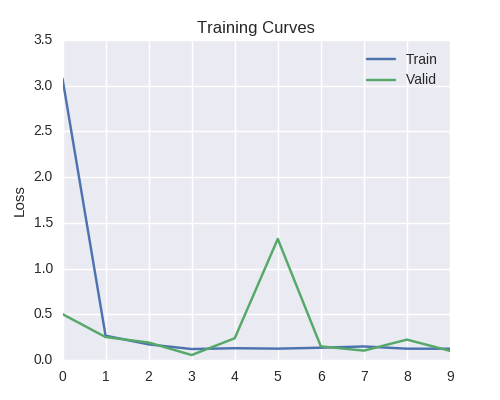
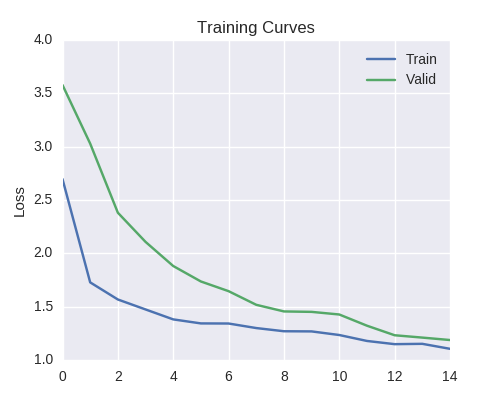
implemented hyperparam optim

diff --git a/hyperdnn2.py b/hyperdnn2.py
@@ -1,0 +1,162 @@
+#!/usr/bin/env python
+
+# Matplotlib with no Backend
+import matplotlib as mpl
+mpl.use('Agg')
+import matplotlib.pyplot as plt
+
+# Basic Imports
+import os
+import sys
+import numpy as np
+import pandas as pd
+import seaborn as sns
+from time import time
+
+# Keras Imports
+from keras.models import Model, load_model
+from keras.layers import Input, Dense, Lambda
+from keras.layers import Flatten, Reshape, BatchNormalization
+from keras.callbacks import CSVLogger, EarlyStopping, ModelCheckpoint
+from keras import regularizers
+from keras import backend as K
+from keras.callbacks import TensorBoard
+
+# Hyperopt
+from datetime import datetime
+from hyperopt import fmin, tpe, hp, STATUS_OK, Trials 
+from hyperopt import space_eval
+from hyperopt.pyll.base import scope
+
+# Other Imports
+from sklearn.model_selection import train_test_split
+from utils import plot_log
+
+
+#################################
+## HYPEROPT DEFINITIONS        ##
+#################################
+space = { 'i_units': scope.int(hp.uniform('units1',120,300)),
+          'm_units': scope.int(hp.uniform('units2', 72,200)),
+          'o_units': scope.int(hp.uniform('units3', 16,32)),
+
+          # 'dropout1': hp.uniform('dropout1',.2,.5),
+          # 'dropout2': hp.uniform('dropout2',.2,.5),
+
+          'batch_size' : scope.int(hp.uniform('batch_size', 20, 30)),
+          # 'layers': hp.choice('layers',['Five','Four']),
+          # 'optimizer': hp.choice('optimizer',['adam','rmsprop']),
+          # 'loss': hp.choice('loss',['categorical_crossentropy','squared_hinge','mean_squared_error']),
+        }
+
+
+
+# Global Parameters
+path = sys.argv[1]
+
+# Data load function
+def load_data(filename,prints=False):
+    data   = pd.read_csv(filename,header=None)
+    x_data = data.iloc[:,:-1].values
+    y_data = data.iloc[:,-1].values
+    if prints:
+        print 'X shape:', x_data.shape
+        print 'Y shape:', y_data.shape
+    return x_data,y_data
+
+# Load data
+filename = path + '/train.csv'
+x_train,y_train=load_data(filename)
+x_train,x_valid,y_train,y_valid = train_test_split(x_train,y_train,test_size=0.33,random_state=32)
+
+def f_nn(params):
+    ## Training Params
+    num_batch = params['batch_size']
+    num_epoch = 30
+
+    # addlayer  = params['layers'] == 'Five'
+
+    # Parameters
+    ndim = x_train.shape[1]
+    L1   = params['i_units']
+    L2   = params['m_units']
+    # L3   = params['m_units']
+    L4   = params['o_units']
+
+    # Build DNN
+    def build_model():
+        x = Input(shape=(ndim,),name='Input')
+        h = Dense(L1,activation='relu',name='L1')(x)
+        h = BatchNormalization()(h)
+        h = Dense(L2,activation='relu',kernel_regularizer=regularizers.l2(0.01),name='L2')(h)
+        h = BatchNormalization()(h)
+        # if addlayer:
+        #     h = Dense(L3,activation='relu',kernel_regularizer=regularizers.l2(0.01),name='L3')(h)
+        #     h = BatchNormalization()(h)
+        h = Dense(L4,activation='relu',name='L4')(h)
+        h = BatchNormalization()(h)
+        y = Dense(1,activation='linear',name='Output')(h)
+        model = Model(x,y)
+        return model
+
+
+    # Compile Model
+    model = build_model()
+    # model.summary()
+    model.compile(optimizer='adam',loss='mean_squared_error')
+
+    modelname  = 'hypermodel.h5'
+    e_stopper  = EarlyStopping(monitor='val_loss', min_delta=0, patience=20)
+    # checkpoint = ModelCheckpoint(modelname,monitor='val_loss',verbose=1,save_best_only=True)
+
+    # Train Model
+    log = model.fit(x_train, y_train,
+                    batch_size=num_batch,
+                    epochs=num_epoch,
+                    shuffle=True,
+                    validation_data=(x_valid,y_valid),
+                    # callbacks=[e_stopper,checkpoint],
+                    # callbacks=[e_stopper],
+                    verbose=2)
+
+    # model = load_model(modelname)
+
+    loss = model.evaluate(x_valid,y_valid,verbose=0)
+    print '\n\nLoss: {:0.4f}'.format(loss)
+    print 'L1: {}, L2: {}, L4: {}'.format(L1,L2,L4)
+    print 'BatchSize: {}\n\n'.format(num_batch)
+    return {'loss': loss, 'status': STATUS_OK}
+
+
+#################################
+## HYPERPARAMETER SEARCH       ##
+#################################
+then = time()
+trials = Trials()
+best   = fmin(f_nn, space, algo=tpe.suggest, max_evals=25, trials=trials)
+
+# Report Time
+now = time()
+d = divmod(now-then,86400)  # days
+h = divmod(d[1],3600)       # hours
+m = divmod(h[1],60)         # minutes
+s = m[1]                    # seconds
+print '\nTotal training time: %02dd:%02dh:%02dm:%02ds'% (d[0],h[0],m[0],s)
+print '\n\n'
+
+
+# Get the values of the optimal parameter
+best_params = space_eval(space, best)
+print 'best: '
+print best_params
+
+# Save the hyperparameter at each iteration to a csv file
+param_values = [x['misc']['vals'] for x in trials.trials]
+param_values = [{key:value for key in x for value in x[key]} for x in param_values]
+param_values = [space_eval(space, x) for x in param_values]
+
+param_df = pd.DataFrame(param_values)
+param_df['MSE'] = [x for x in trials.losses()]
+param_df.index.name = 'Iteration'
+param_df.to_csv("hyperparameters2.csv")
+

diff --git a/dnntrain.py b/dnntrain.py
@@ -24,40 +24,47 @@ from keras.callbacks import TensorBoard
 
 # Other Imports
 from sklearn.model_selection import train_test_split
-from utils import plot_log, run_tests
+from sklearn.preprocessing import MinMaxScaler
+from utils import load_data, plot_log, run_tests
 
 # Global Parameters
 path = sys.argv[-1]
 
-# Data load function
-def load_data(filename,prints=False,subset=False):
-    data   = pd.read_csv(filename,header=None)
-    if subset:
-        data = data.sample(frac=0.2,random_state=32).reset_index(drop=True)
-    else:
-        data = data.sample(frac=1,random_state=32).reset_index(drop=True)    
-    x_data = data.iloc[:,:-1].values
-    y_data = data.iloc[:,-1].values
-    if prints:
-        print 'X shape:', x_data.shape
-        print 'Y shape:', y_data.shape
-    return x_data,y_data
 
 # Load data
 filename = path + '/train.csv'
-x_train,y_train=load_data(filename,True,True)
-x_train,x_valid,y_train,y_valid = train_test_split(x_train,y_train,test_size=0.33,random_state=32)
+x_train,y_train=load_data(filename,prints=True,subset=False)
+scaler  = MinMaxScaler(feature_range=(-1,1)).fit(y_train.reshape(-1,1))
+y_train = scaler.transform(y_train.reshape(-1,1)).squeeze()
+x_train,x_valid,y_train,y_valid = train_test_split(x_train,y_train,test_size=0.01,random_state=32)
+
+# ## Training Params
+# num_batch = 26
+# num_epoch = 30
+# patience  = 10
+
+# # Parameters
+# ndim = x_train.shape[1]
+# L1   = 148
+# L2   = 142
+# L4   = 23
 
 ## Training Params
-num_batch = 10
-num_epoch = 30
+num_batch = 22
+num_epoch = 15
+patience  = 10
 
 # Parameters
 ndim = x_train.shape[1]
-L1   = 256
-L2   = 256
-L3   = 256
-L4   = 32
+L1   = 127
+L2   = 169
+L4   = 16
+
+
+# Model 2
+# {'m_units': 172, 'o_units': 20, 'batch_size': 27, 'i_units': 127}
+# {'m_units': 169, 'o_units': 16, 'batch_size': 22, 'i_units': 178}
+
 
 # Build DNN
 def build_model():
@@ -66,8 +73,8 @@ def build_model():
     h = BatchNormalization()(h)
     h = Dense(L2,activation='relu',kernel_regularizer=regularizers.l2(0.01),name='L2')(h)
     h = BatchNormalization()(h)
-    h = Dense(L3,activation='relu',kernel_regularizer=regularizers.l2(0.01),name='L3')(h)
-    h = BatchNormalization()(h)
+    # h = Dense(L3,activation='relu',kernel_regularizer=regularizers.l2(0.01),name='L3')(h)
+    # h = BatchNormalization()(h)
     h = Dense(L4,activation='relu',name='L4')(h)
     h = BatchNormalization()(h)
     y = Dense(1,activation='linear',name='Output')(h)
@@ -89,8 +96,8 @@ tplotname = path + '/tplot.png'
 
 # Callback Functions
 csv_logger = CSVLogger(logname)
-e_stopper  = EarlyStopping(monitor='val_loss', min_delta=0, patience=5)
-checkpoint = ModelCheckpoint(modelname,monitor='val_loss',verbose=1,save_best_only=True)
+# e_stopper  = EarlyStopping(monitor='val_loss', min_delta=0, patience=patience)
+# checkpoint = ModelCheckpoint(modelname,monitor='val_loss',verbose=1,save_best_only=True)
 
 # Train Model
 then = time()
@@ -99,7 +106,8 @@ log = model.fit(x_train, y_train,
                 epochs=num_epoch,
                 shuffle=True,
                 validation_data=(x_valid,y_valid),
-                callbacks=[csv_logger,e_stopper,checkpoint],
+                callbacks = [csv_logger],
+                # callbacks=[csv_logger,e_stopper,checkpoint],
                 verbose=1)
 
 now = time()
@@ -114,7 +122,38 @@ plot_log(log,imgname=figname)
 
 
 # Run test
-run_tests(path,model,tplotname)
+# run_tests(path,model,tplotname)
+
+# Test Files
+tfiles = [fname for fname in os.listdir(path+'/') if fname.startswith("test")]
+fig, axs = plt.subplots(len(tfiles),figsize=(8,6))
+
+for i, file in enumerate(tfiles):
+    fname = path + '/' + file
+    x_test,y_test=load_data(fname)
+    y_test = scaler.transform(y_test.reshape(-1,1)).squeeze()
+    y_predict = model.predict(x_test)
+    loss = model.evaluate(x_test,y_test,verbose=0)
+    
+    xx = range(len(y_test))
+
+    if len(tfiles)==1 :
+        ax = axs
+    else:
+        ax = axs[i]
+
+    ax.plot(xx,y_test,xx,y_predict,'g')
+    header = '{0}, mse={1:.02f}'.format(fname[9:-4],loss)
+    ax.set_title(header)
+
+    oname = path + '/ypred{}.csv'.format(i+1)
+    tname = path + '/ytest{}.csv'.format(i+1)
+    np.savetxt(oname,y_predict,delimiter=',')
+    np.savetxt(tname,y_test,delimiter=',')
+
+plt.legend(['Original','Predicted'],loc=1)
+plt.tight_layout()
+fig.savefig(tplotname)
 
 
 

diff --git a/utils.py b/utils.py
@@ -4,11 +4,27 @@
 # Date: 12/13/2017
 # Description: Utility functions for training nets
 
+import os
+import pandas as pd
+import numpy as np 
 # Matplotlib with no Backend
 import matplotlib as mpl
 mpl.use('Agg')
 import matplotlib.pyplot as plt
 
+# Data load function
+def load_data(filename,prints=False,subset=False):
+    data   = pd.read_csv(filename,header=None)
+    if subset:
+        data = data.sample(frac=0.2,random_state=32).reset_index(drop=True)
+    else:
+        data = data.sample(frac=1,random_state=32).reset_index(drop=True)    
+    x_data = data.iloc[:,:-1].values
+    y_data = data.iloc[:,-1].values
+    if prints:
+        print 'X shape:', x_data.shape
+        print 'Y shape:', y_data.shape
+    return x_data,y_data
 
 def plot_log(log,imgname='trainlog.png'):
     if isinstance(log,str):
@@ -45,9 +61,14 @@ def run_tests(path,model,imgname='testplots.png'):
         
         xx = range(len(y_test))
 
-        axs[i].plot(xx,y_test,xx,y_predict,'g')
+        if len(tfiles)==1 :
+            ax = axs
+        else:
+            ax = axs[i]
+
+        ax.plot(xx,y_test,xx,y_predict,'g')
         header = '{0}, mse={1:.02f}'.format(fname[9:-4],loss)
-        axs[i].set_title(header)
+        ax.set_title(header)
 
         oname = path + '/ypred{}.csv'.format(i+1)
         tname = path + '/ytest{}.csv'.format(i+1)

diff --git a/hyperdnn.py b/hyperdnn.py
@@ -72,7 +72,7 @@ x_train,x_valid,y_train,y_valid = train_test_split(x_train,y_train,test_size=0.3
 def f_nn(params):
     ## Training Params
     num_batch = params['batch_size']
-    num_epoch = 1#30
+    num_epoch = 20
 
     addlayer  = params['layers'] == 'Five'
 
@@ -102,11 +102,11 @@ def f_nn(params):
 
     # Compile Model
     model = build_model()
-    model.summary()
+    # model.summary()
     model.compile(optimizer='adam',loss='mean_squared_error')
 
     modelname  = 'hypermodel.h5'
-    e_stopper  = EarlyStopping(monitor='val_loss', min_delta=0, patience=5)
+    e_stopper  = EarlyStopping(monitor='val_loss', min_delta=0, patience=8)
     checkpoint = ModelCheckpoint(modelname,monitor='val_loss',verbose=1,save_best_only=True)
 
     # Train Model
@@ -116,10 +116,14 @@ def f_nn(params):
                     shuffle=True,
                     validation_data=(x_valid,y_valid),
                     callbacks=[e_stopper,checkpoint],
-                    verbose=1)
+                    verbose=2)
 
     model = load_model(modelname)
+
     loss = model.evaluate(x_valid,y_valid,verbose=0)
+    print '\n\nLoss: {:0.4f}'.format(loss)
+    print '5Layers: {}, L1: {}, L2: {}, L4: {}'.format(addlayer,L1,L2,L4)
+    print 'BatchSize: {}\n\n'.format(num_batch)
     return {'loss': loss, 'status': STATUS_OK}
 
 
